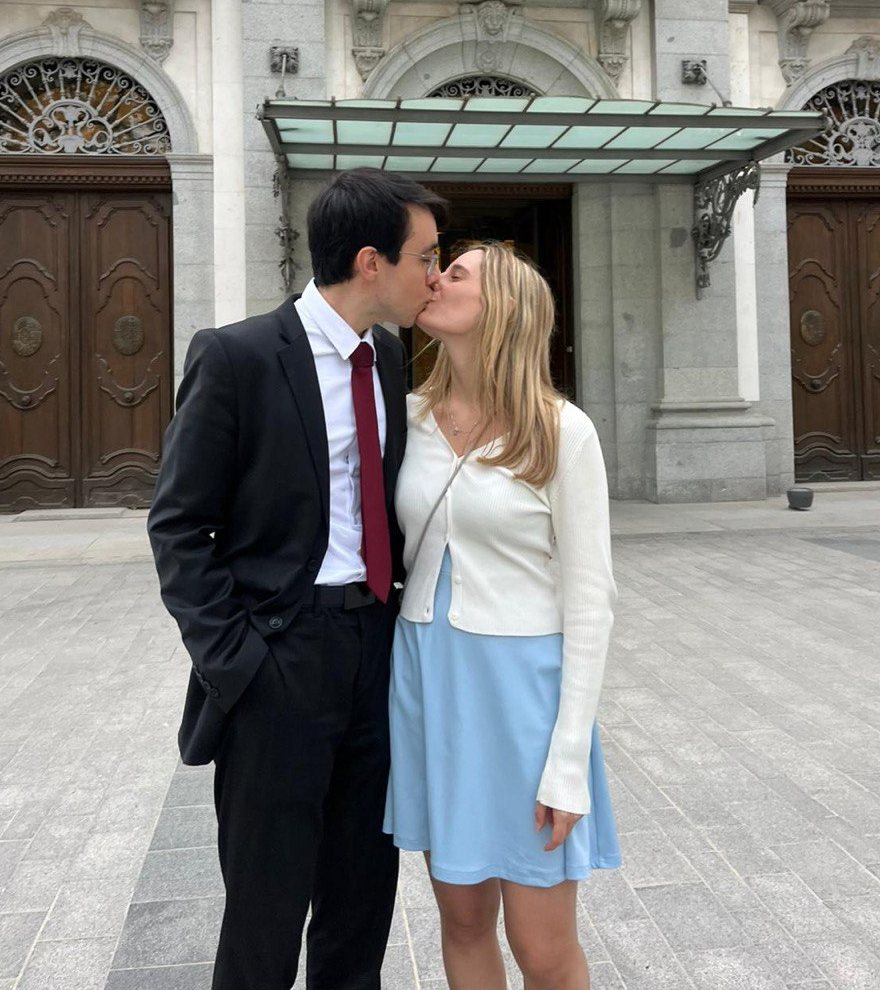
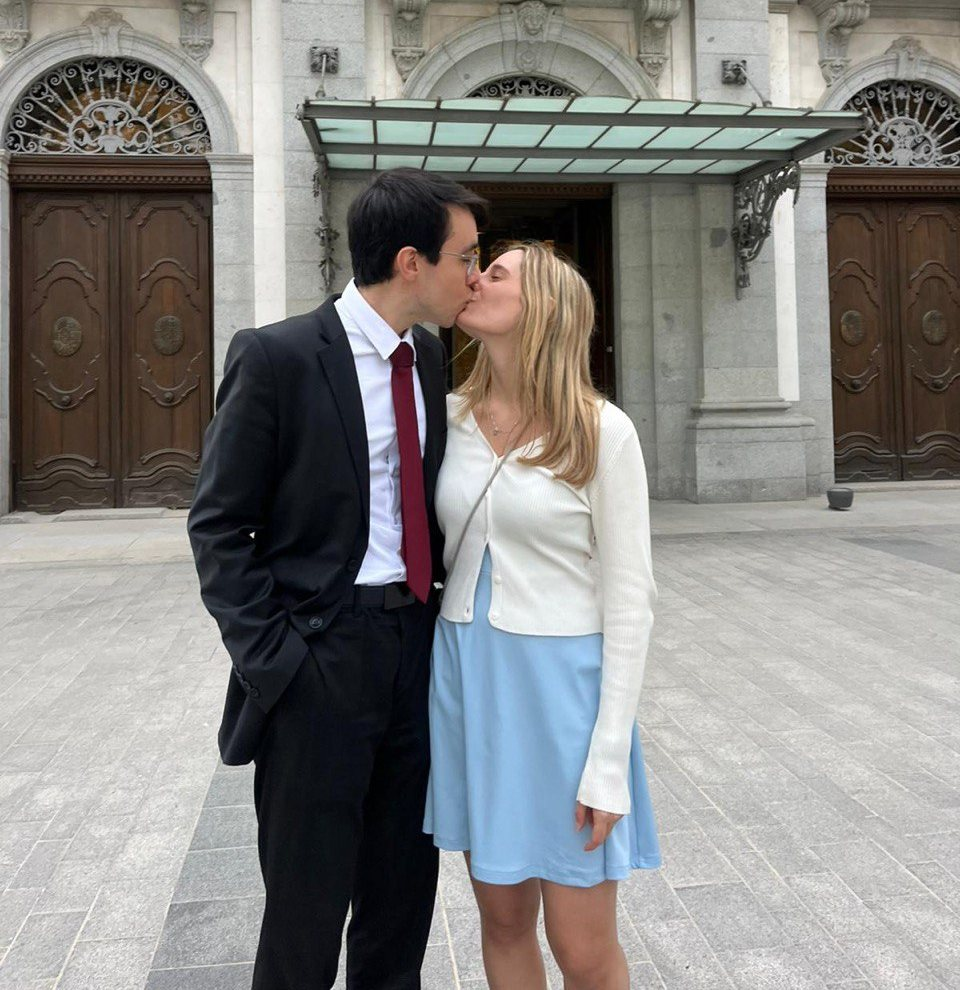
cambio de fotos

diff --git a/public/index.html b/public/index.html
@@ -15,9 +15,9 @@
 <link rel="preconnect" href="https://fonts.googleapis.com">
 <link rel="preconnect" href="https://fonts.gstatic.com" crossorigin>
 <link rel="stylesheet" href="https://fonts.googleapis.com/css2?family=Crimson+Pro:ital,wght@0,300;0,400;0,500;0,600;1,300;1,400&amp;family=Pinyon+Script&amp;display=swap">
-<link rel="preload" as="font" href="fonts/pagella.woff" type="font/woff" crossorigin>
-<link rel="stylesheet" href="css/estilos.css">
-<link rel="preload" as="image" href="img/fondo.webp" type="image/webp">
+<link rel="preload" as="font" href="fonts/pagella.woff?v=b855d5ac" type="font/woff" crossorigin>
+<link rel="stylesheet" href="css/estilos.css?v=52a7248a">
+<link rel="preload" as="image" href="img/fondo.webp?v=420ee86a" type="image/webp">
 </head>
 <body>
 <svg width="0" height="0" style="position:absolute" aria-hidden="true" focusable="false">
@@ -90,7 +90,7 @@
       <section class="page page-illu" aria-label="Invitación de boda de Julia y Arturo">
         <div class="page-in">
           <div class="illu" id="illu">
-            <img class="illu-bg" src="img/fondo.webp" width="1188" height="1082" decoding="async"
+            <img class="illu-bg" src="img/fondo.webp?v=420ee86a" width="1188" height="1082" decoding="async"
                  alt="«Ciertas almas se buscan porque están hechas la una para la otra.» Victor Hugo. Mapa de España con un lazo rojo en forma de corazón que une dos mariposas.">
             <svg class="illu-fx" viewBox="0 0 1188 1082" aria-hidden="true" focusable="false">
               <defs>
@@ -105,8 +105,8 @@
               <path class="hg-ring" d="M674.8 675.5 L678.1 671.5 L681.2 667.5 L683.9 663.6 L686.8 659 L689.4 654.6 L691.7 650.6 L694.2 646 L696.4 641.8 L698.9 637 L701.1 632.7 L703.3 628.3 L705.5 624 L707.7 619.6 L710.1 614.7 L712.3 610.4 L714.4 606.1 L716.8 601.2 L718.9 596.9 L720.9 592.5 L723.1 587.6 L724.9 583.2 L726.7 578.8 L728.6 573.8 L730.1 569.4 L731.7 564.3 L733 559.7 L734.3 554.5 L735.3 549.8 L736.1 545 L736.7 540.2 L737.2 535.3 L737.5 529.7 L737.6 524.7 L737.5 519.8 L737.1 514.8 L736.6 509.9 L735.9 505 L734.9 500.1 L733.7 495.3 L732.2 490.7 L730.5 486.1 L728.3 481.1 L726.1 476.7 L723.6 472.6 L720.9 468.6 L717.4 464.3 L714.1 460.8 L710.5 457.5 L706.7 454.5 L702.7 451.8 L698 449.3 L693.6 447.5 L688.5 446.1 L683.9 445.4 L678.6 445.4 L673.9 445.9 L668.5 447.2 L663.8 448.8 L659.3 450.9 L655.4 453.1 L651.1 455.9 L647.1 459 L643.4 462.4 L640 466.1 L636.9 469.9 L634.2 474 L631.4 478.8 L629.2 483.2 L627.3 487.3 L625.4 492 L623.3 496.6 L620.8 501.3 L617.9 505.2 L614.1 508.2 L609.4 509.9 L604.7 509.7 L599.8 507.8 L595.8 505.2 L591.7 502.2 L587.4 499.1 L583.5 496.5 L578.9 494.1 L574.2 492.2 L569.4 490.9 L564.5 490 L559.6 489.6 L554.6 489.7 L549.7 490.2 L544.9 491.1 L540.1 492.5 L535.5 494.2 L530.5 496.5 L526.3 499 L522.3 501.7 L518.5 504.8 L514.7 508.5 L511.7 512.1 L508.7 516.4 L506.5 520.5 L504.5 525.3 L503.1 530.3 L502.2 534.8 L501.6 540.1 L501.5 544.9 L501.8 550.3 L502.3 555.2 L503.2 560.1 L504.4 564.9 L505.8 569.8 L507.5 574.6 L509.2 578.7 L511.3 583.3 L513.6 587.8 L516.2 592.2 L518.9 596.4 L521.7 600.4 L524.8 604.2 L528.4 608.3 L531.7 611.7 L535.1 615 L539.2 618.5 L542.9 621.5 L547.2 624.7 L551.1 627.4 L555.1 630 L559.8 632.7 L563.9 635.1 L568.2 637.4 L573.1 639.9 L577.4 642.1 L581.8 644.1 L586.3 646.2 L590.7 648.2 L595.8 650.4 L600.3 652.3 L604.8 654.2 L609.4 656.1 L613.9 658 L618.5 659.7 L623.6 661.7 L628.2 663.4 L632.8 665 L637.4 666.5 L642.1 667.9 L647.3 669.5 L652 670.7 L656.6 671.9 L661.3 672.9 L666.6 674 L671.4 674.8 Z"/>
               <path class="hg-ring hg-ring2" d="M674.8 675.5 L678.1 671.5 L681.2 667.5 L683.9 663.6 L686.8 659 L689.4 654.6 L691.7 650.6 L694.2 646 L696.4 641.8 L698.9 637 L701.1 632.7 L703.3 628.3 L705.5 624 L707.7 619.6 L710.1 614.7 L712.3 610.4 L714.4 606.1 L716.8 601.2 L718.9 596.9 L720.9 592.5 L723.1 587.6 L724.9 583.2 L726.7 578.8 L728.6 573.8 L730.1 569.4 L731.7 564.3 L733 559.7 L734.3 554.5 L735.3 549.8 L736.1 545 L736.7 540.2 L737.2 535.3 L737.5 529.7 L737.6 524.7 L737.5 519.8 L737.1 514.8 L736.6 509.9 L735.9 505 L734.9 500.1 L733.7 495.3 L732.2 490.7 L730.5 486.1 L728.3 481.1 L726.1 476.7 L723.6 472.6 L720.9 468.6 L717.4 464.3 L714.1 460.8 L710.5 457.5 L706.7 454.5 L702.7 451.8 L698 449.3 L693.6 447.5 L688.5 446.1 L683.9 445.4 L678.6 445.4 L673.9 445.9 L668.5 447.2 L663.8 448.8 L659.3 450.9 L655.4 453.1 L651.1 455.9 L647.1 459 L643.4 462.4 L640 466.1 L636.9 469.9 L634.2 474 L631.4 478.8 L629.2 483.2 L627.3 487.3 L625.4 492 L623.3 496.6 L620.8 501.3 L617.9 505.2 L614.1 508.2 L609.4 509.9 L604.7 509.7 L599.8 507.8 L595.8 505.2 L591.7 502.2 L587.4 499.1 L583.5 496.5 L578.9 494.1 L574.2 492.2 L569.4 490.9 L564.5 490 L559.6 489.6 L554.6 489.7 L549.7 490.2 L544.9 491.1 L540.1 492.5 L535.5 494.2 L530.5 496.5 L526.3 499 L522.3 501.7 L518.5 504.8 L514.7 508.5 L511.7 512.1 L508.7 516.4 L506.5 520.5 L504.5 525.3 L503.1 530.3 L502.2 534.8 L501.6 540.1 L501.5 544.9 L501.8 550.3 L502.3 555.2 L503.2 560.1 L504.4 564.9 L505.8 569.8 L507.5 574.6 L509.2 578.7 L511.3 583.3 L513.6 587.8 L516.2 592.2 L518.9 596.4 L521.7 600.4 L524.8 604.2 L528.4 608.3 L531.7 611.7 L535.1 615 L539.2 618.5 L542.9 621.5 L547.2 624.7 L551.1 627.4 L555.1 630 L559.8 632.7 L563.9 635.1 L568.2 637.4 L573.1 639.9 L577.4 642.1 L581.8 644.1 L586.3 646.2 L590.7 648.2 L595.8 650.4 L600.3 652.3 L604.8 654.2 L609.4 656.1 L613.9 658 L618.5 659.7 L623.6 661.7 L628.2 663.4 L632.8 665 L637.4 666.5 L642.1 667.9 L647.3 669.5 L652 670.7 L656.6 671.9 L661.3 672.9 L666.6 674 L671.4 674.8 Z"/>
             </svg>
-            <div class="bfly" id="bflyAnd"><div class="flap"><img src="img/mariposa_and.webp" alt="" draggable="false"></div></div>
-            <div class="bfly" id="bflyCat"><div class="flap"><img src="img/mariposa_cat.webp" alt="" draggable="false"></div></div>
+            <div class="bfly" id="bflyAnd"><div class="flap"><img src="img/mariposa_and.webp?v=6af80148" alt="" draggable="false"></div></div>
+            <div class="bfly" id="bflyCat"><div class="flap"><img src="img/mariposa_cat.webp?v=4eeb913a" alt="" draggable="false"></div></div>
             <div class="burst" id="burst" aria-hidden="true"></div>
             <svg class="illu-hit" viewBox="0 0 1188 1082">
               <path id="heartHit" class="heart-hit" d="M674.8 675.5 L678.1 671.5 L681.2 667.5 L683.9 663.6 L686.8 659 L689.4 654.6 L691.7 650.6 L694.2 646 L696.4 641.8 L698.9 637 L701.1 632.7 L703.3 628.3 L705.5 624 L707.7 619.6 L710.1 614.7 L712.3 610.4 L714.4 606.1 L716.8 601.2 L718.9 596.9 L720.9 592.5 L723.1 587.6 L724.9 583.2 L726.7 578.8 L728.6 573.8 L730.1 569.4 L731.7 564.3 L733 559.7 L734.3 554.5 L735.3 549.8 L736.1 545 L736.7 540.2 L737.2 535.3 L737.5 529.7 L737.6 524.7 L737.5 519.8 L737.1 514.8 L736.6 509.9 L735.9 505 L734.9 500.1 L733.7 495.3 L732.2 490.7 L730.5 486.1 L728.3 481.1 L726.1 476.7 L723.6 472.6 L720.9 468.6 L717.4 464.3 L714.1 460.8 L710.5 457.5 L706.7 454.5 L702.7 451.8 L698 449.3 L693.6 447.5 L688.5 446.1 L683.9 445.4 L678.6 445.4 L673.9 445.9 L668.5 447.2 L663.8 448.8 L659.3 450.9 L655.4 453.1 L651.1 455.9 L647.1 459 L643.4 462.4 L640 466.1 L636.9 469.9 L634.2 474 L631.4 478.8 L629.2 483.2 L627.3 487.3 L625.4 492 L623.3 496.6 L620.8 501.3 L617.9 505.2 L614.1 508.2 L609.4 509.9 L604.7 509.7 L599.8 507.8 L595.8 505.2 L591.7 502.2 L587.4 499.1 L583.5 496.5 L578.9 494.1 L574.2 492.2 L569.4 490.9 L564.5 490 L559.6 489.6 L554.6 489.7 L549.7 490.2 L544.9 491.1 L540.1 492.5 L535.5 494.2 L530.5 496.5 L526.3 499 L522.3 501.7 L518.5 504.8 L514.7 508.5 L511.7 512.1 L508.7 516.4 L506.5 520.5 L504.5 525.3 L503.1 530.3 L502.2 534.8 L501.6 540.1 L501.5 544.9 L501.8 550.3 L502.3 555.2 L503.2 560.1 L504.4 564.9 L505.8 569.8 L507.5 574.6 L509.2 578.7 L511.3 583.3 L513.6 587.8 L516.2 592.2 L518.9 596.4 L521.7 600.4 L524.8 604.2 L528.4 608.3 L531.7 611.7 L535.1 615 L539.2 618.5 L542.9 621.5 L547.2 624.7 L551.1 627.4 L555.1 630 L559.8 632.7 L563.9 635.1 L568.2 637.4 L573.1 639.9 L577.4 642.1 L581.8 644.1 L586.3 646.2 L590.7 648.2 L595.8 650.4 L600.3 652.3 L604.8 654.2 L609.4 656.1 L613.9 658 L618.5 659.7 L623.6 661.7 L628.2 663.4 L632.8 665 L637.4 666.5 L642.1 667.9 L647.3 669.5 L652 670.7 L656.6 671.9 L661.3 672.9 L666.6 674 L671.4 674.8 Z" tabindex="0" role="button"
@@ -214,9 +214,9 @@
       <h1 class="rv">
         <span class="of">La boda de</span>
         <span class="hero-bflies">
-          <span class="hero-bfly left" aria-hidden="true"><span class="flap"><img src="img/mariposa_and.webp" alt="" draggable="false"></span></span>
+          <span class="hero-bfly left" aria-hidden="true"><span class="flap"><img src="img/mariposa_and.webp?v=6af80148" alt="" draggable="false"></span></span>
           <span class="names">Julia <span class="y">y</span> Arturo</span>
-          <span class="hero-bfly right" aria-hidden="true"><span class="flap"><img src="img/mariposa_cat.webp" alt="" draggable="false"></span></span>
+          <span class="hero-bfly right" aria-hidden="true"><span class="flap"><img src="img/mariposa_cat.webp?v=4eeb913a" alt="" draggable="false"></span></span>
         </span>
       </h1>
       <span class="sep sep-hero" aria-hidden="true"></span>
@@ -338,17 +338,17 @@
       <div class="slides" id="slides" aria-roledescription="carrusel" aria-label="Nuestra historia">
         <div class="frame">
           <div class="frame-in">
-            <figure class="slide" data-foto="fotos/01.jpg" data-ar="0.6489" data-pl="Santa Justa" data-c="#e9c9b0,#c9d6c4,#efe0c4"></figure>
-            <figure class="slide" data-foto="fotos/02.jpg" data-ar="1.3348" data-pl="Dublín" data-c="#bfd3c1,#d9e2c6,#ece4cf"></figure>
-            <figure class="slide" data-foto="fotos/03.jpg" data-ar="1.5000" data-pl="Islantilla" data-c="#bcd6df,#f0dcb6,#f3e9d2"></figure>
-            <figure class="slide" data-foto="fotos/04.jpg" data-ar="1.3348" data-pl="Volando durante la pandemia" data-c="#d6cfe2,#c8d9df,#eee6d6"></figure>
-            <figure class="slide" data-foto="fotos/05.jpg" data-ar="1.3337" data-pl="Carcassonne" data-c="#e3cfa6,#cfc3b6,#f0e5cd"></figure>
-            <figure class="slide" data-foto="fotos/06.jpg" data-ar="0.7500" data-pl="Sabadell" data-c="#efcdb4,#e8dcc0,#f4ead6"></figure>
-            <figure class="slide" data-foto="fotos/07.jpg" data-ar="1.3348" data-pl="Asador Argentino" data-c="#e4bfa5,#e9d4b0,#f2e6d0"></figure>
-            <figure class="slide" data-foto="fotos/08.jpg" data-ar="0.8889" data-pl="Tribunal Supremo" data-c="#cdd9b7,#f0d9a6,#f2e9d4"></figure>
-            <figure class="slide" data-foto="fotos/09.jpg" data-ar="0.7683" data-pl="Girona, Temps de Flors" data-c="#e6c6d6,#d6e2c4,#f3e6d6"></figure>
-            <figure class="slide" data-foto="fotos/10.jpg" data-ar="0.7500" data-pl="París" data-c="#efc7c3,#ead8bd,#f5ead8"></figure>
-            <figure class="slide" data-foto="fotos/11.jpg" data-ar="0.7958" data-pl="Sevilla" data-c="#f0d0cc,#e6d6b2,#f7eedc"></figure>
+            <figure class="slide" data-foto="fotos/01.jpg?v=0a14c97a" data-ar="1.0610" data-pl="Santa Justa" data-c="#e9c9b0,#c9d6c4,#efe0c4"></figure>
+            <figure class="slide" data-foto="fotos/02.jpg?v=ac8004ae" data-ar="1.3348" data-pl="Dublín" data-c="#bfd3c1,#d9e2c6,#ece4cf"></figure>
+            <figure class="slide" data-foto="fotos/03.jpg?v=a8efe598" data-ar="1.5000" data-pl="Islantilla" data-c="#bcd6df,#f0dcb6,#f3e9d2"></figure>
+            <figure class="slide" data-foto="fotos/04.jpg?v=c113bb1a" data-ar="1.3348" data-pl="Volando durante la pandemia" data-c="#d6cfe2,#c8d9df,#eee6d6"></figure>
+            <figure class="slide" data-foto="fotos/05.jpg?v=1ec24000" data-ar="1.3337" data-pl="Carcassonne" data-c="#e3cfa6,#cfc3b6,#f0e5cd"></figure>
+            <figure class="slide" data-foto="fotos/06.jpg?v=5609fd5d" data-ar="1.4633" data-pl="Sabadell" data-c="#efcdb4,#e8dcc0,#f4ead6"></figure>
+            <figure class="slide" data-foto="fotos/07.jpg?v=48dd9e5e" data-ar="1.3348" data-pl="Asador Argentino" data-c="#e4bfa5,#e9d4b0,#f2e6d0"></figure>
+            <figure class="slide" data-foto="fotos/08.jpg?v=6aa49d2c" data-ar="0.9697" data-pl="Tribunal Supremo" data-c="#cdd9b7,#f0d9a6,#f2e9d4"></figure>
+            <figure class="slide" data-foto="fotos/09.jpg?v=b7ec6ebf" data-ar="0.7683" data-pl="Girona, Temps de Flors" data-c="#e6c6d6,#d6e2c4,#f3e6d6"></figure>
+            <figure class="slide" data-foto="fotos/10.jpg?v=fd895d60" data-ar="0.7500" data-pl="París" data-c="#efc7c3,#ead8bd,#f5ead8"></figure>
+            <figure class="slide" data-foto="fotos/11.jpg?v=75d14c58" data-ar="0.7958" data-pl="Sevilla" data-c="#f0d0cc,#e6d6b2,#f7eedc"></figure>
           </div>
         </div>
 
@@ -509,7 +509,7 @@
 <audio id="music" preload="auto" loop></audio>
 
 <script src="js/config.js"></script>
-<script src="js/geo.js"></script>
-<script src="js/app.js"></script>
+<script src="js/geo.js?v=1fb20512"></script>
+<script src="js/app.js?v=0a677786"></script>
 </body>
 </html>

diff --git a/server.js b/server.js
@@ -77,14 +77,25 @@ function serveStatic(req, res, urlPath) {
     if (err || !st.isFile()) return send(res, 404, "No encontrado", { "Content-Type": "text/plain; charset=utf-8" });
     const ext = path.extname(file).toLowerCase();
     const type = MIME[ext] || "application/octet-stream";
-    const longCache = /\.(webp|jpe?g|png|gif|avif|mp3|m4a|aac|ogg|woff2?|svg|ico)$/i.test(ext);
+    // Always revalidate (browsers and Cloudflare): when a photo or the song is replaced with the same
+    // name, everyone gets the new one straight away. Unchanged files answer 304 with no body.
+    const etag = `W/"${st.size.toString(16)}-${Math.floor(st.mtimeMs).toString(16)}"`;
     const headers = {
       "Content-Type": type,
-      "Cache-Control": longCache ? "public, max-age=604800" : "no-cache",
+      "Cache-Control": "no-cache",
+      "ETag": etag,
       "Accept-Ranges": "bytes",
       "Last-Modified": st.mtime.toUTCString(),
     };
     const range = req.headers.range;
+    const inm = req.headers["if-none-match"];
+    const ims = req.headers["if-modified-since"];
+    const fresh = inm ? inm.split(/\s*,\s*/).includes(etag)
+      : (ims ? Date.parse(ims) >= Math.floor(st.mtimeMs / 1000) * 1000 : false);
+    if (fresh && !range) {
+      res.writeHead(304, { ...SECURITY_HEADERS, "Cache-Control": "no-cache", "ETag": etag, "Last-Modified": headers["Last-Modified"] });
+      return res.end();
+    }
     if (range) {
       const m = /^bytes=(\d*)-(\d*)$/.exec(range);
       if (!m) return send(res, 416, "", { "Content-Range": `bytes */${st.size}` });

diff --git a/public/css/estilos.css b/public/css/estilos.css
@@ -26,7 +26,7 @@
 
 @font-face {
   font-family: "Pagella";
-  src: url("../fonts/pagella.woff") format("woff");
+  src: url("../fonts/pagella.woff?v=b855d5ac") format("woff");
   font-weight: 400;
   font-style: normal;
   font-display: swap;
@@ -493,7 +493,7 @@ section, .hero, .site-foot { position: relative; }
   width: min(300px, 82%);
   max-width: 100%;
   aspect-ratio: 1476 / 192;
-  background: url("../img/separador.webp") center / contain no-repeat;
+  background: url("../img/separador.webp?v=d7b3ebf6") center / contain no-repeat;
 }
 .sep-hero { width: min(380px, 94%); margin: .7rem auto 1.1rem; }
 body.is-revealing .sep-hero { animation: unroll 1.5s .7s cubic-bezier(.3, .7, .2, 1) both; }

diff --git a/README.md b/README.md
@@ -87,7 +87,7 @@ y crea el registro DNS: `cloudflared tunnel route dns <nombre-del-túnel> boda.t
 
 Las fotos de «La precuela» ya van incluidas. Si queréis cambiar alguna, sustituid el archivo en `public/fotos/` con el mismo nombre (el orden está en `fotos/LEEME.txt`). Se ven enteras, verticales o apaisadas, sin recortar nada. Los textos de cada foto están en `public/index.html`, en la sección «La precuela».
 
-Después de cambiar ficheros no hace falta reiniciar el servidor: basta con recargar la página.
+Después de cambiar fotos, textos o la canción no hace falta reiniciar el servidor: basta con recargar la página (el servidor obliga al navegador y a Cloudflare a comprobar siempre si hay una versión nueva). Solo si se actualiza `server.js` hay que reiniciar el servicio: `sudo systemctl restart boda`.
 
 ## Copia de seguridad
 
